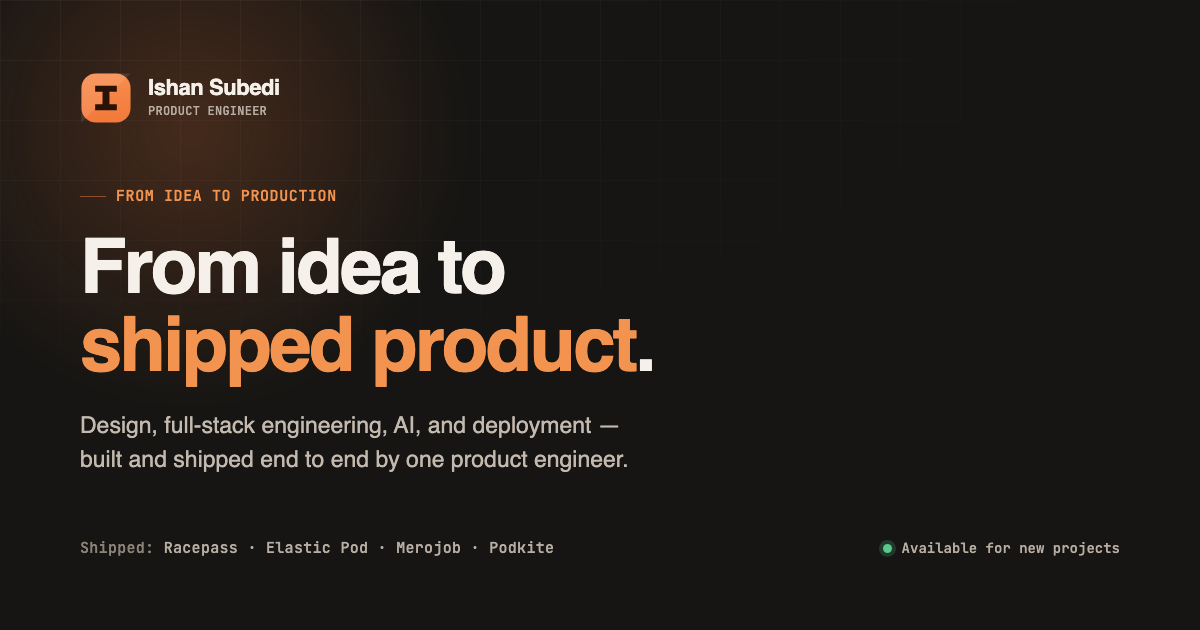
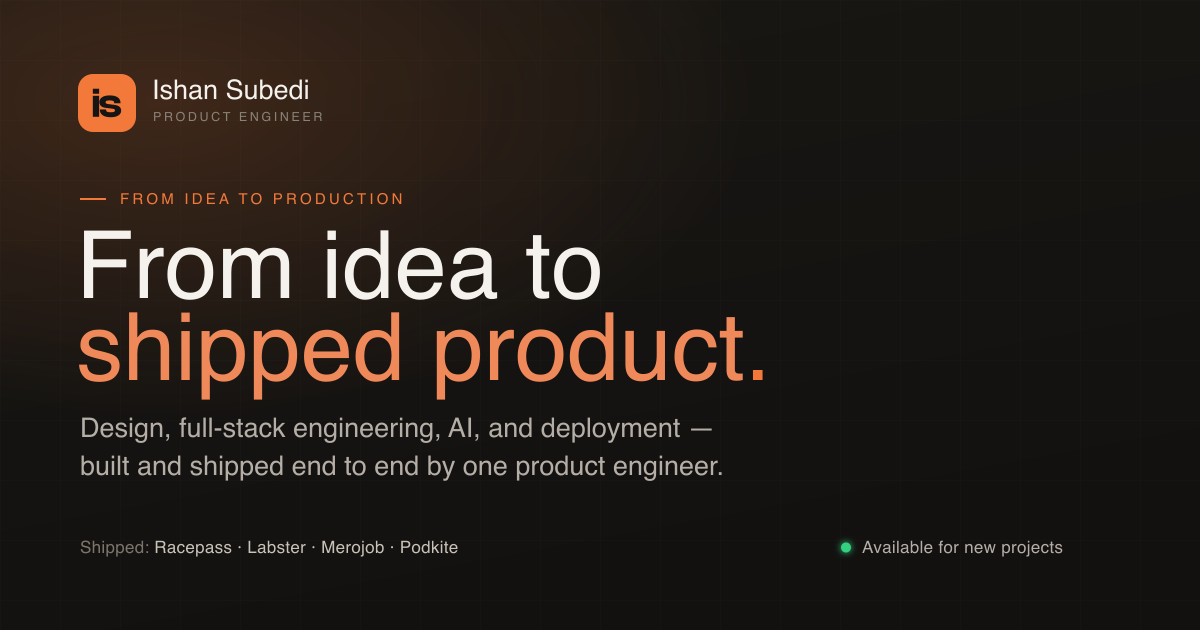
Refresh Open Graph metadata and social card
- Regenerate og-image.png: shipped list now reads Racepass · Labster ·
  Merojob · Podkite (was stale "Elastic Pod"), rebuilt with brand fonts
- nuxt.config: add og:locale, og:image:type, twitter:site defaults
- journals: per-page og:url; articles get article:published_time/author

diff --git a/pages/journals/_slug.vue b/pages/journals/_slug.vue
@@ -14,6 +14,9 @@ export default {
   computed: {
     ogImage () {
       return process.env.SITE_URL + '/journals/' + this.journal.slug + '/' + this.journal.image
+    },
+    ogUrl () {
+      return process.env.SITE_URL + '/journals/' + this.journal.slug
     }
   },
   head () {
@@ -24,8 +27,11 @@ export default {
         { hid: 'og:title', property: 'og:title', content: this.journal.title },
         { hid: 'og:description', property: 'og:description', content: this.journal.description },
         { hid: 'og:type', property: 'og:type', content: 'article' },
+        { hid: 'og:url', property: 'og:url', content: this.ogUrl },
         { hid: 'og:image', property: 'og:image', content: this.ogImage },
         { hid: 'og:image:alt', property: 'og:image:alt', content: this.journal.title },
+        { hid: 'article:published_time', property: 'article:published_time', content: this.journal.createdAt },
+        { hid: 'article:author', property: 'article:author', content: this.journal.author },
         { hid: 'twitter:title', name: 'twitter:title', content: this.journal.title },
         { hid: 'twitter:description', name: 'twitter:description', content: this.journal.description },
         { hid: 'twitter:image', name: 'twitter:image', content: this.ogImage }

diff --git a/nuxt.config.js b/nuxt.config.js
@@ -35,14 +35,17 @@ export default {
       // Open Graph defaults (pages override title/description/url)
       { hid: 'og:site_name', property: 'og:site_name', content: 'Ishan Subedi' },
       { hid: 'og:type', property: 'og:type', content: 'website' },
+      { hid: 'og:locale', property: 'og:locale', content: 'en_US' },
       { hid: 'og:url', property: 'og:url', content: SITE_URL },
       { hid: 'og:image', property: 'og:image', content: OG_IMAGE },
+      { hid: 'og:image:type', property: 'og:image:type', content: 'image/png' },
       { hid: 'og:image:width', property: 'og:image:width', content: '1200' },
       { hid: 'og:image:height', property: 'og:image:height', content: '630' },
       { hid: 'og:image:alt', property: 'og:image:alt', content: 'Ishan Subedi — Product Engineer' },
 
       // Twitter
       { hid: 'twitter:card', name: 'twitter:card', content: 'summary_large_image' },
+      { hid: 'twitter:site', name: 'twitter:site', content: '@ikushum' },
       { hid: 'twitter:image', name: 'twitter:image', content: OG_IMAGE },
       { hid: 'twitter:creator', name: 'twitter:creator', content: '@ikushum' }
     ],

diff --git a/pages/journals/index.vue b/pages/journals/index.vue
@@ -65,6 +65,7 @@ export default {
         { hid: 'description', name: 'description', content: seo.description },
         { hid: 'og:title', property: 'og:title', content: seo.title },
         { hid: 'og:description', property: 'og:description', content: seo.description },
+        { hid: 'og:url', property: 'og:url', content: process.env.SITE_URL + '/journals' },
         { hid: 'twitter:title', name: 'twitter:title', content: seo.title },
         { hid: 'twitter:description', name: 'twitter:description', content: seo.description }
       ]
